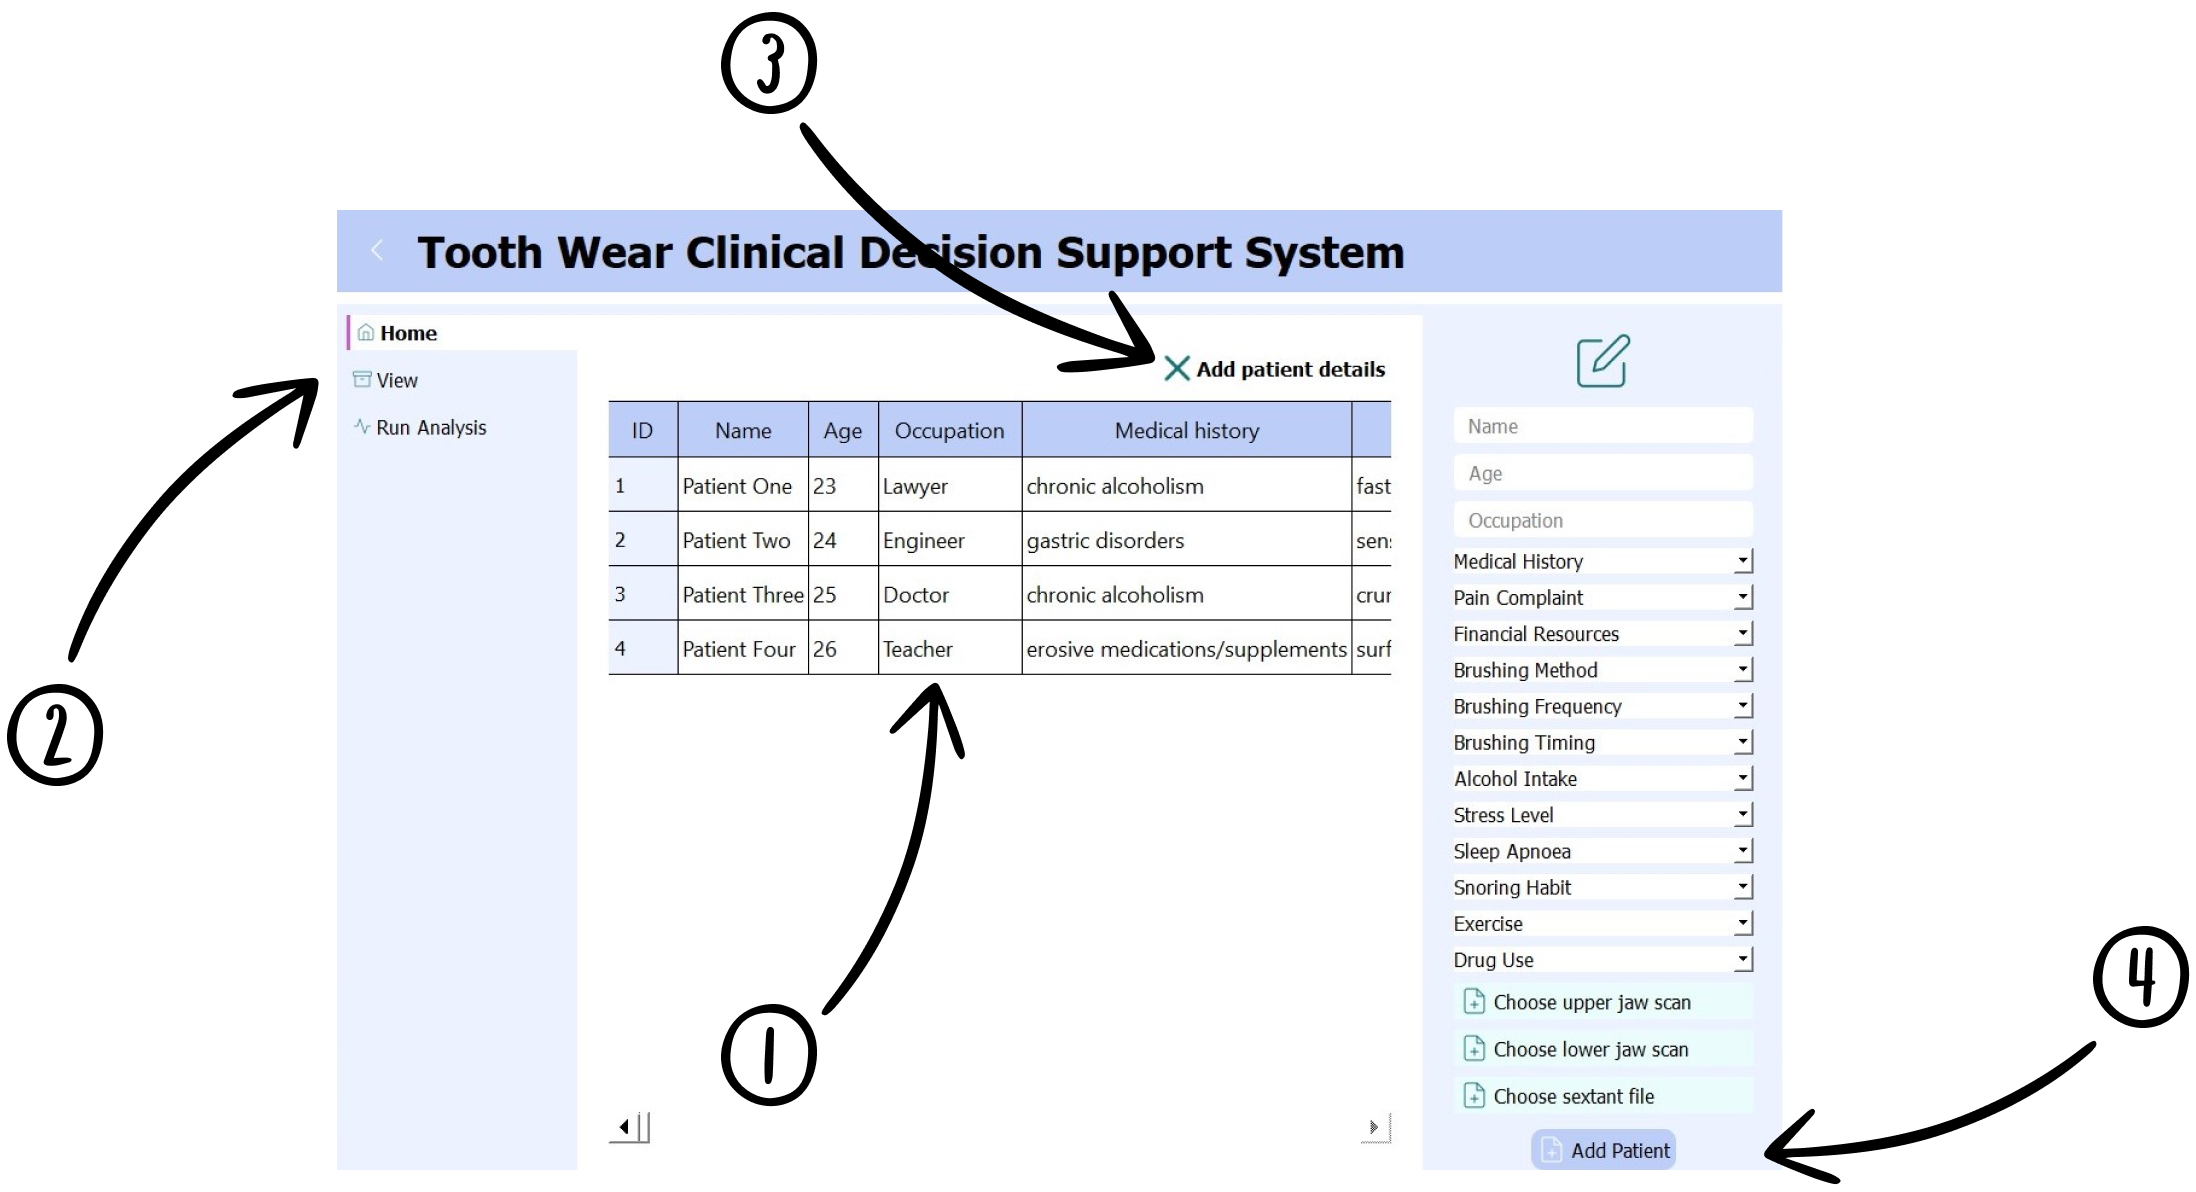
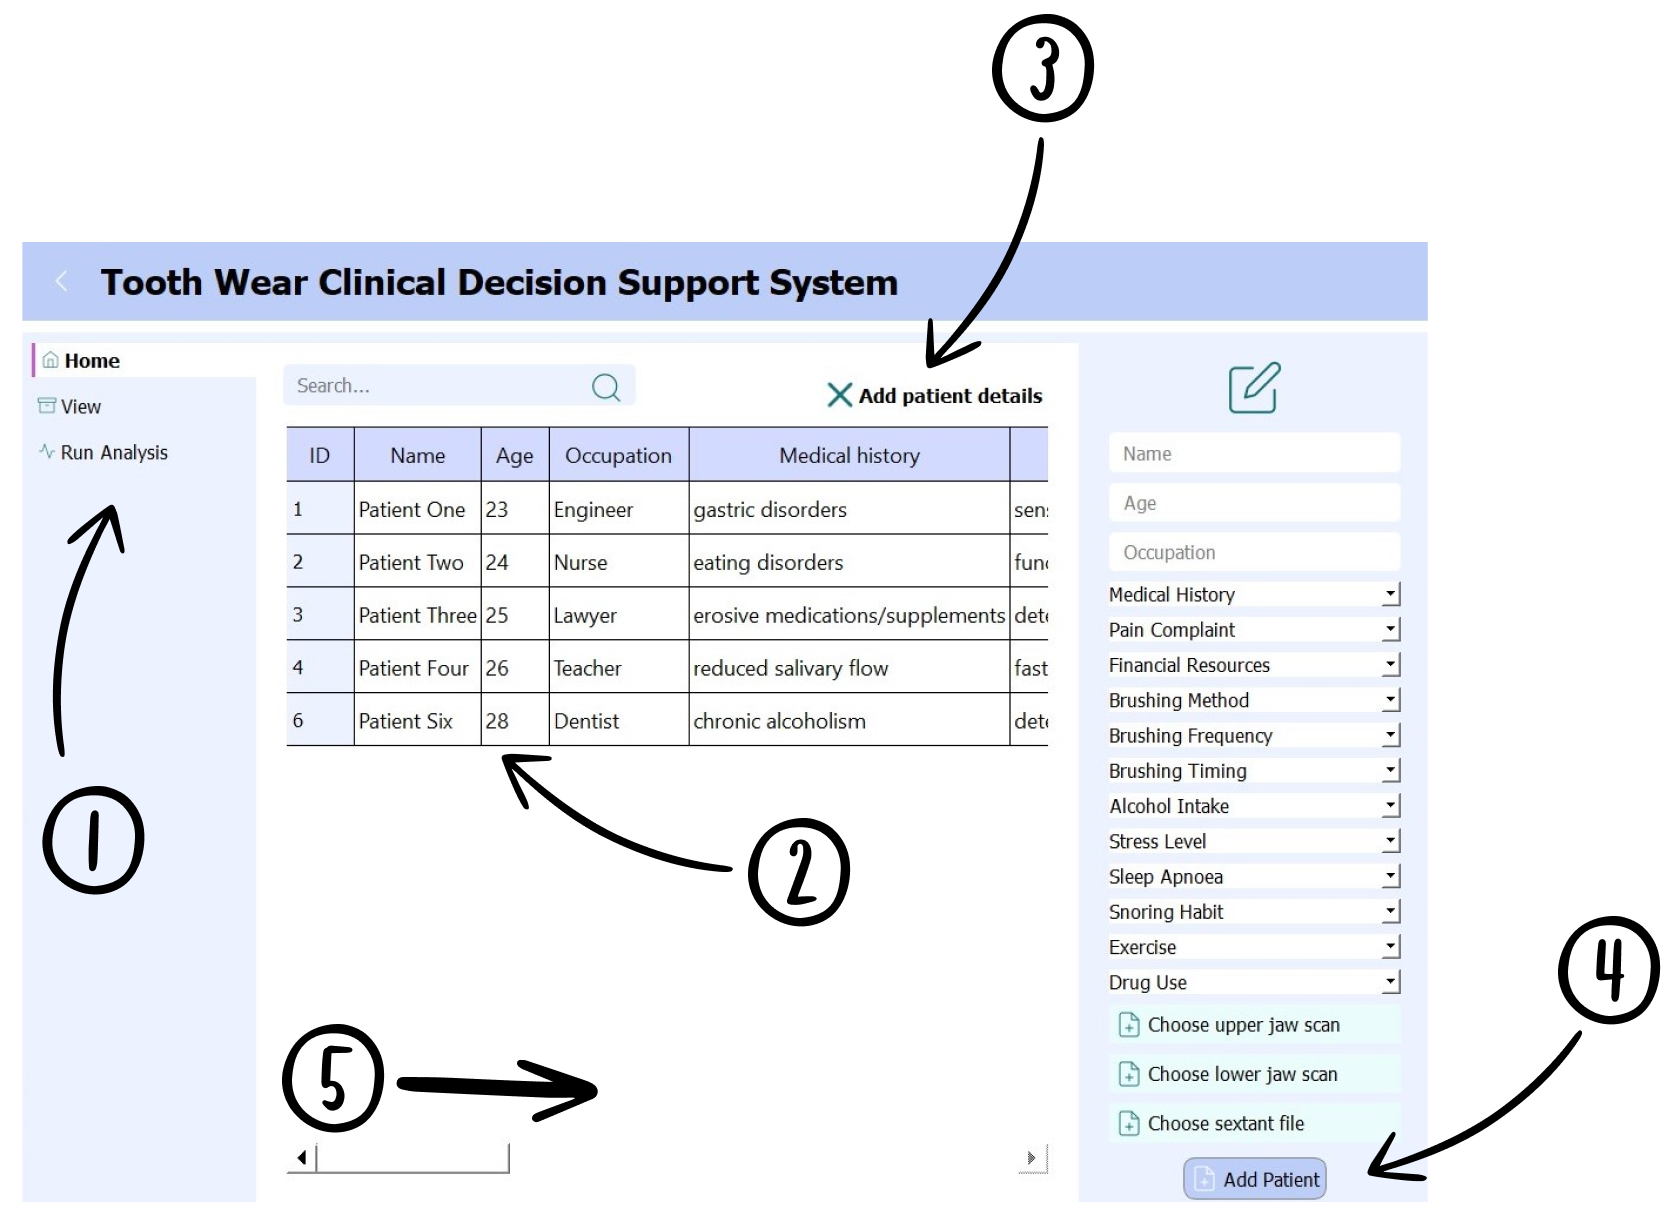
Updated user manual and fixed small bug with home page scaling.

diff --git a/user-manual.html b/user-manual.html
@@ -95,19 +95,33 @@
             <img class="img-card" src="images/User Manual/Usrman-HomePage.png" width="70%">
             <ol class="num-list">
                 <li>
-                    The main point of the home page is the data table with information of all
-                    the patients the dentist has access to. You can click on a patient name
-                    to directly see their tooth scans if they have them.
+                    When you login you will first see the home page. On the left sidebar there
+                    will be a navigation panel to access all app pages.
                 </li>
                 <li>
-                    On the left is the navigation side bar to access the rest of the page.
+                    The main table on the home page is the database of all the patients. (You can
+                    click on a patients name to directly view their tooth scans).
                 </li>
                 <li>
-                    Click the add patient button to bring up the side-bar on the right.
+                    Click the add patient button to add a new patient. This will cause
+                    a sidebar on the right to appear.
                 </li>
                 <li>
-                    Here a dentist can add patient data along with their tooth scans to
-                    add a new patient to the database.
+                    Here you can input all the patient details along with the patient tooth
+                    scans. Once you are done press `add patient`.
+                </li>
+                <li>
+                    Scroll with your mouse or using the scroll bar on the bottom to see
+                    the rest of the patient data.
+                </li>
+            </ol>
+            <img class="img-card" src="images/User Manual/Usrman-DeletePage.png" width="70%">
+            <ol class="num-list">
+                <li>
+                    At the end of the patient table there is a delete button to remove a patient
+                </li>
+                <li>
+                    Make sure you want to delete the selected patient and confirm.
                 </li>
             </ol>
             <h3 class="section-subheading">Viewing Page</h3>
@@ -133,8 +147,7 @@
                     You will see the prediction load in on top after some time.
                 </li>
                 <li>
-                    The bottom will display the treatment plan suggestion. This is currently not implemented yet
-                    due to the lack of data.
+                    The bottom will display the treatment plan suggestion.
                 </li>
             </ol>
         </div>
